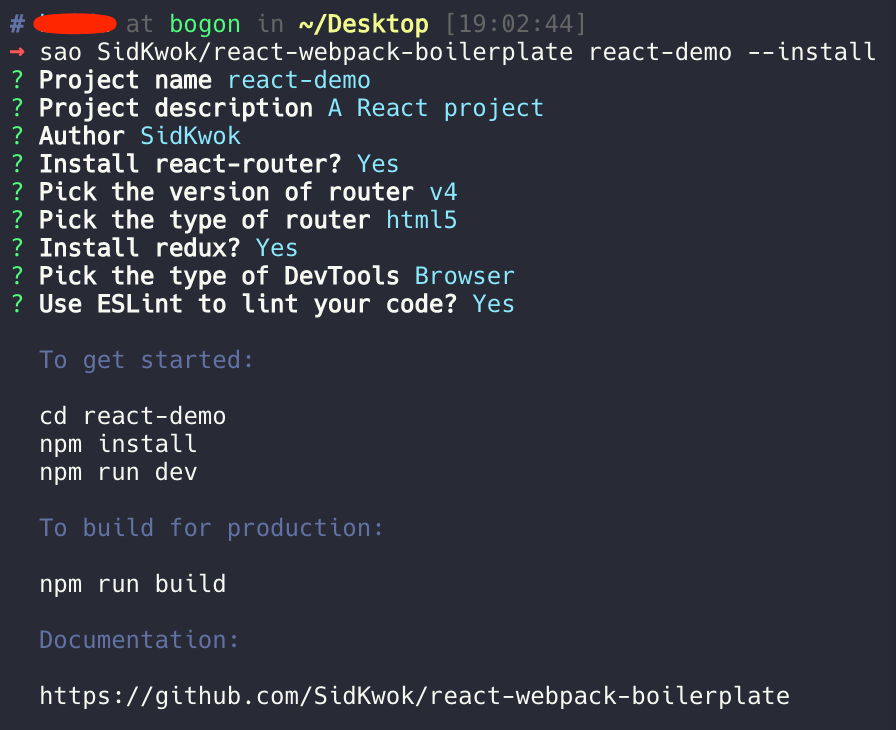
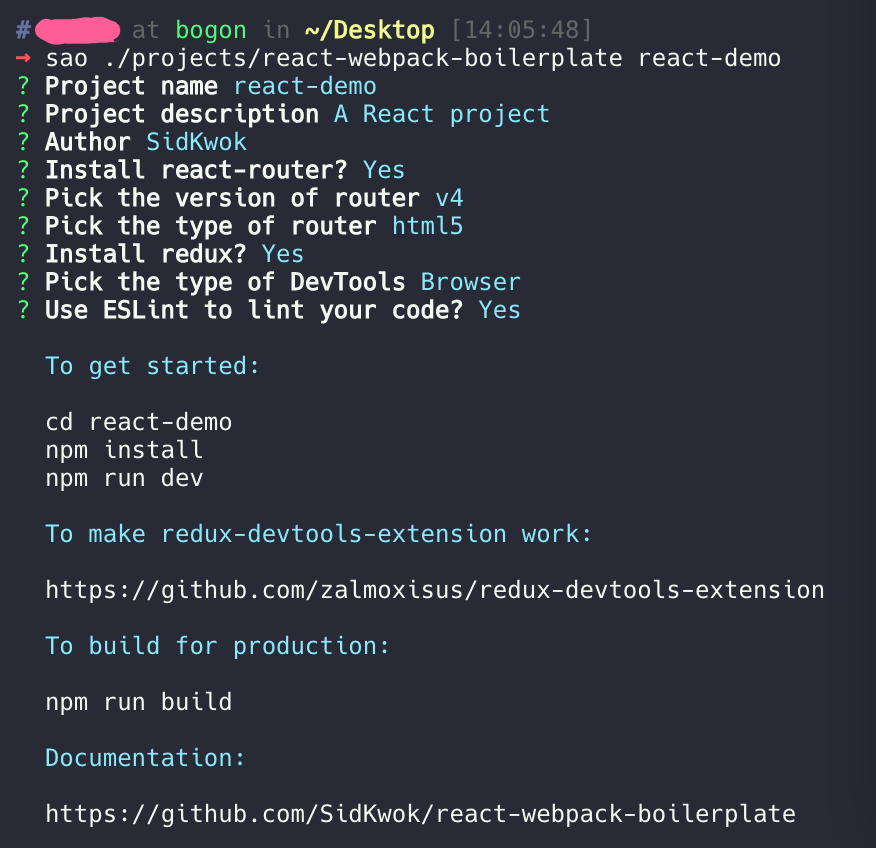
fix author

Changed region(s): [[0.0, 0.0, 0.9863, 0.4521], [0.0308, 0.4822, 0.9247, 0.9041], [0.0308, 0.9342, 0.9247, 0.9945]]

diff --git a/sao.js b/sao.js
@@ -111,7 +111,7 @@ module.exports = {
         console.log('  npm install');
         console.log('  npm run dev');
 
-        if (answers.redux === 'browser') {
+        if (answers.devtools === 'browser') {
             console.log(chalk.cyan('\n  To make redux-devtools-extension work:\n'));
             console.log('  https://github.com/zalmoxisus/redux-devtools-extension');
         }
